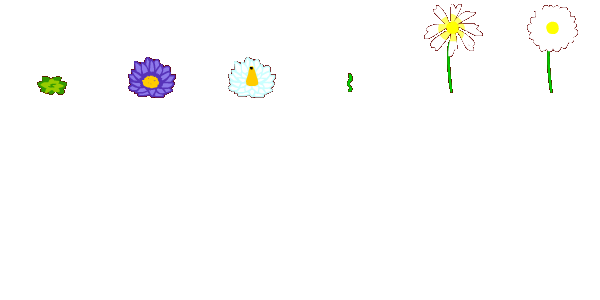
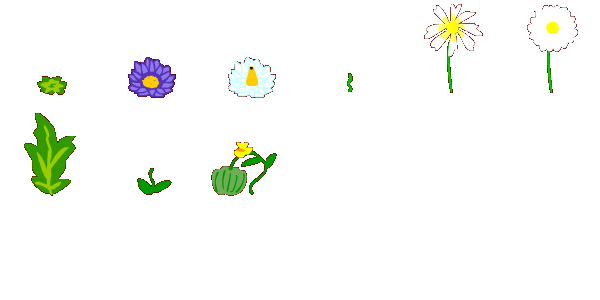
finishing Abdju

Changed region(s): [[0.03, 0.36, 0.15, 0.66], [0.33, 0.45, 0.48, 0.66], [0.21, 0.57, 0.3, 0.66]]

diff --git a/js/text.js b/js/text.js
@@ -42,27 +42,27 @@ const texts = {
     "factShedet0": "The Greeks called Shedet \"Krokodilopolis\" due to the prominent cult of Sobek, the crocodile god.", 
     "factShedet1": "During the Roman occupation of Egypt, many mummy portraits were painted in Shedet. | These portraits were painted on boards attached to mummies, and depicted the faces of those who were mummified.", 
     "factShedet2": "Shedet is still a populated city today, now known as Faiyum. Many large bazaars, baths, and mosques can be found here.", 
-    "factHerakleopolis0": "Herakleopolis", 
+    /*"factHerakleopolis0": "Herakleopolis", 
     "factHerakleopolis1": "", 
     "factHerakleopolis2": "", 
     "factHermopolis0": "Hermopolis", 
     "factHermopolis1": "", 
-    "factHermopolis2": "", 
-    "factAbydos0": "Abydos", 
-    "factAbydos1": "", 
-    "factAbydos2": "", 
+    "factHermopolis2": "", */
+    "factAbdju0": "Abdju, or Abydos as it was called by the Greeks, is one of Ancient Egypt's oldest cities.", 
+    "factAbdju1": "The memorial temple of Menmaatre Seti I - a pharaoh of the 19th Dynasty - is located in Abdju. | In his temple is the famous Abydos King List, which lists 76 Ancient Egyptian kings in order of their reign.", 
+    "factAbdju2": "The Temple of Seti I in Abdju is the source of a conspiracy theory about helicopter hieroglyphs. | Some of the markings on the wall resemble helicopters or spaceships, but the reality is far less exciting. | Carved stones were re-used - the written stones were filled with plaster and re-carved into - and over time some of this plaster faded away. | Because of this, two hieroglyphs appeared on top of each other, leading to unexpected shapes. | As cool as it is to imagine ancient aliens giving the Ancient Egyptians their technology, the reality is that sometimes ancient civilizations are smart and good at doing things. | It's very important to remember that brilliant people were coming up with great ideas all around the world since the beginning of humanity, and that calling any amazing innovations from the past \"alien technology\" dismisses the real ingenuity of our ancestors.", 
     "factThebes0": "Thebes", 
     "factThebes1": "", 
     "factThebes2": "", 
-    "factKom Ombo0": "Kom Ombo", 
+    /*"factKom Ombo0": "Kom Ombo", 
     "factKom Ombo1": "", 
-    "factKom Ombo2": "", 
+    "factKom Ombo2": "", */
     "factElephantine0": "Elephantine", 
     "factElephantine1": "", 
     "factElephantine2": "", 
-    "factAbu Simbel0": "Abu Simbel", 
+    /*"factAbu Simbel0": "Abu Simbel", 
     "factAbu Simbel1": "", 
-    "factAbu Simbel2": "", 
+    "factAbu Simbel2": "", */
     "factNapata0": "Napata", 
     "factNapata1": "", 
     "factNapata2": "", 
@@ -160,6 +160,10 @@ const texts = {
     "whitelotus2": "The number 1,000 in Ancient Egyptian numerals was represented by the hieroglyph for the white lotus.", 
     "chrysanthemum0": "Flower collars were often made for mummies starting in the New Kingdom. Flowers like crysanthemums and acacias were used for these arrangements.", 
     "chamomile0": "During the 18th Dynasty, nobility wore large glazed ceramic collars, often styled into the shapes of flowers like chamomile and lotus flowers.",
+    "lettuce0": "Ancient Egyptian lettuce bears its closest resemblance to modern day Romaine Lettuce.",
+    "lettuce1": "Lettuce was offered to Min, the god of fertility. It was considered an aphrodisiac to help people reproduce.",  
+    "melon0": "In Ancient Egypt, it was said that melons grew from the seeds of the chaos god Set, who spilled them while chasing Isis.", 
+    "melon1": "Watermelons became popular in Ancient Egypt due to their water content. Melons can stay fresh for weeks or months if kept in a well shaded area.",
 
     // Travelling
     "goToPlace": "It will take @arg to sail to @arg2, giving your bees plenty of time to produce honey. | ?sail",

diff --git a/js/things.js b/js/things.js
@@ -10,10 +10,9 @@ const things = {
     "tutServant": { type: "person", sprite: "pers2tiny", anim: "helpser", dir: 1, name: "Setka", text: "intro9" },
 
     /* --- PLANTS --- */
-    "corn": { type: "observable", sprite: "plants", sx: 2, rawsx: 0, name: "Corn", textRange: 1 }, // not yet used
     "wheat": { type: "observable", sprite: "plants", sx: 3, rawsx: 1, name: "Wheat", textRange: 2 },
     "barley": { type: "observable", sprite: "plants", sx: 4, rawsx: 0, name: "Barley", textRange: 1 },
-    "papyrus": { type: "observable", sprite: "plants", sx: 5, rawsx: 1, name: "Papyrus", textRange: 3 }, // not yet used
+    "papyrus": { type: "observable", sprite: "plants", sx: 5, rawsx: 1, name: "Papyrus", textRange: 3 },
 
     "flax": { type: "beeable", sprite: "plants", sx: 1, rawsx: 0, sy: 1, name: "Flax", textRange: 2, beeY: -120 },
     "date": { type: "beeable", sprite: "plantsBig", rawsx: 0, sx: 1, name: "Date Palm", textRange: 2, beeY: -280, beeRadius: 75 },
@@ -22,16 +21,13 @@ const things = {
     "whitelotus": { type: "beeable", sprite: "plantsSmall", rawsx: 0, sx: 2, name: "White Lotus", textRange: 3, foreground: true },
     "chamomile": { type: "beeable", sprite: "plantsSmall", rawsx: 3, sx: 5, name: "Chamomile", textRange: 1, beeY: -60 },
     "chrysanthemum": { type: "beeable", sprite: "plantsSmall", rawsx: 3, sx: 4, name: "Crown Daisy", textRange: 1, foreground: true },
+    "melon": { type: "beeable", sprite: "plantsSmall", rawsx: 1, rawsy: 1, sx: 2, sy: 1, name: "Melon", textRange: 2, foreground: true },
     
-    "fig": { type: "observable" }, // fig wasps
-    "garlic": { type: "observable" }, // BAD FOR BEES!!!
-    "lettuce": { type: "observable" }, // to fuck good
-    "melon": { type: "beeable" }, // not yet used
-    "cornflower": { type: "beeable" }, // Centaurea depressa, imported
-    "redpoppy": { type: "beeable" }, // Papaver rhoeas, imported
-    "acacia": { type: "beeable" }, // not yet used
-    "onion": { type: "beeable" }, // not yet used
-    "lettuce": { type: "beeable" }, // not yet used
+    "lettuce": { type: "observable", sprite: "plantsSmall", rawsx: 0, rawsy: 0, sx: 0, sy: 1, name: "Lettuce", textRange: 2 }, // not yet used
+    "corn": { type: "observable", sprite: "plants", sx: 2, rawsx: 0, name: "Corn", textRange: 1 }, // not yet used
+    "garlic": { type: "observable" }, // BAD FOR BEES!!! not yet used or drawn
+    "acacia": { type: "beeable" }, // not yet used or drawn
+    "onion": { type: "beeable" }, // not yet used or drawn
 
     /* --- MISC --- */
     "puddle": { type: "bg", sprite: "puddle", foreground: true, y: 15 },

diff --git a/js/places.js b/js/places.js
@@ -147,10 +147,15 @@ const places = {
             { x: 1790, id: "boxGold" },
             { x: 1900, id: "slappy2" },
             { x: 2400, id: "isis" }, { x: 2400, id: "isisAltar" },
-            { x: 2700, id: "osiris" }, { x: 2700, id: "osirisAltar" }
+            { x: 2700, id: "osiris" }, { x: 2700, id: "osirisAltar" },
+            { x: 4150, id: "papyrus" },
+            { x: 4855, id: "papyrus" },
+            { x: 5555, id: "papyrus" },
+            { x: 6255, id: "papyrus" }
         ];
         AddTemple(res, 2050, 3);
         for(let x = 0; x < 5; x++) { res.push({ x: 3090 + x * (90 + x), y: Math.floor(5 * Math.random()), id: "flax" }); }
+        for(let x = 0; x < 4; x++) { res.push({ x: 1200 + x * (96 + x), y: Math.floor(5 * Math.random()), id: "melon" }); }
         return res;
     }(),  
     "Thebes": [ // https://en.wikipedia.org/wiki/Amenhotep_III

diff --git a/js/main.js b/js/main.js
@@ -92,6 +92,9 @@ https://en.wikipedia.org/wiki/Semerkhet
 https://en.wikipedia.org/wiki/Ka_(pharaoh)
 https://en.wikipedia.org/wiki/Prehistoric_Egypt
 
+http://beadcollector.net/cgi-bin/anyboard.cgi?fvp=/openforum/&cmd=get&cG=6323239383&zu=3632323838&v=2&gV=0&p=
+https://www.nationalgeographic.com/news/2015/08/150821-watermelon-fruit-history-agriculture/
+
 https://www.ancient.eu/amun/
 https://en.wikipedia.org/wiki/Lettuce#History
 https://en.wikipedia.org/wiki/Memphis,_Egypt
